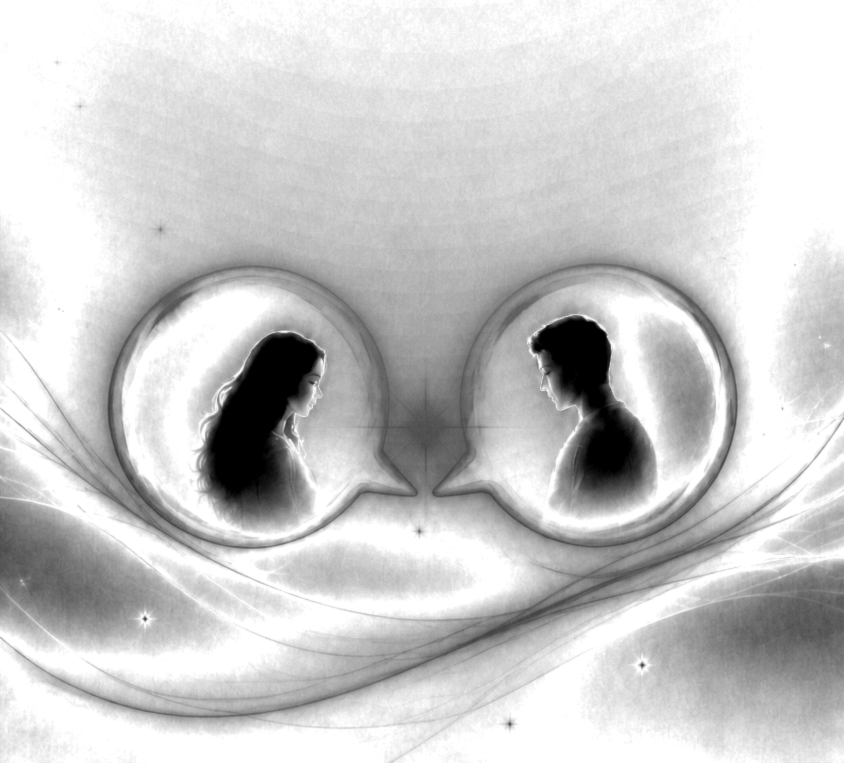
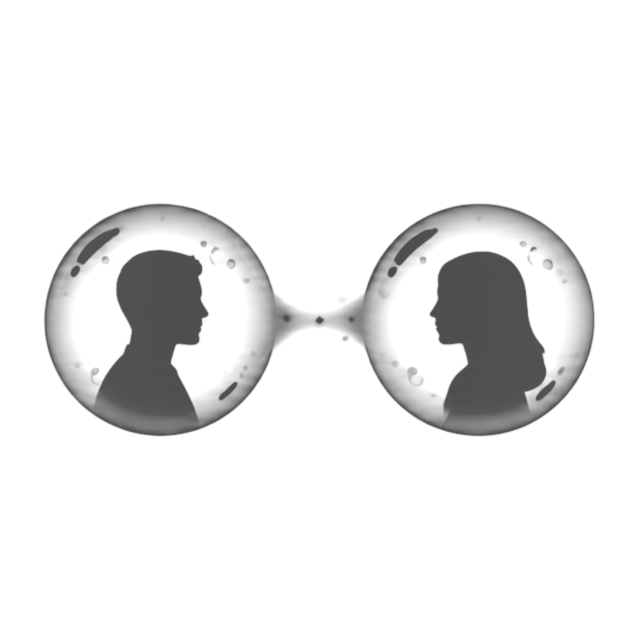
web: swap in user-provided v4 gradient illustration sets
Replace the high-pass-processed art with the final hand-made sets from
once_illustrations_gradient_sets_v4: black/ (dark art) -> light-mode -b,
white/ (light art) -> dark-mode -w, straight PNG->WebP (no reprocessing).
Square-ish, ~9-37KB each. Cache bust v=31.

diff --git a/web/public/index.html b/web/public/index.html
@@ -26,7 +26,7 @@
   <link rel="preconnect" href="https://fonts.googleapis.com">
   <link rel="preconnect" href="https://fonts.gstatic.com" crossorigin>
   <link href="https://fonts.googleapis.com/css2?family=Noto+Sans+Hebrew:wght@400;500;600;700;800;900&display=swap" rel="stylesheet">
-  <link rel="stylesheet" href="styles.css?v=30" />
+  <link rel="stylesheet" href="styles.css?v=31" />
 </head>
 <body>
   <header class="header">
@@ -67,8 +67,8 @@
         </div>
         <div class="hero-visual" aria-hidden="true">
           <picture>
-            <source srcset="img/01-hero-one-bubble-w.webp?v=30" media="(prefers-color-scheme: dark)" />
-            <img src="img/01-hero-one-bubble-b.webp?v=30" alt="" loading="eager" class="blob-1" />
+            <source srcset="img/01-hero-one-bubble-w.webp?v=31" media="(prefers-color-scheme: dark)" />
+            <img src="img/01-hero-one-bubble-b.webp?v=31" alt="" loading="eager" class="blob-1" />
           </picture>
         </div>
       </div>
@@ -89,8 +89,8 @@
           </div>
           <div class="section-visual" aria-hidden="true">
             <picture>
-              <source srcset="img/02-crowd-noise-focus-w.webp?v=30" media="(prefers-color-scheme: dark)" />
-              <img src="img/02-crowd-noise-focus-b.webp?v=30" alt="" loading="lazy" class="blob-2" />
+              <source srcset="img/02-crowd-noise-focus-w.webp?v=31" media="(prefers-color-scheme: dark)" />
+              <img src="img/02-crowd-noise-focus-b.webp?v=31" alt="" loading="lazy" class="blob-2" />
             </picture>
           </div>
         </div>
@@ -113,8 +113,8 @@
           </div>
           <div class="section-visual" aria-hidden="true">
             <picture>
-              <source srcset="img/06-two-sides-one-moment-w.webp?v=30" media="(prefers-color-scheme: dark)" />
-              <img src="img/06-two-sides-one-moment-b.webp?v=30" alt="" loading="lazy" class="blob-3" />
+              <source srcset="img/06-two-sides-one-moment-w.webp?v=31" media="(prefers-color-scheme: dark)" />
+              <img src="img/06-two-sides-one-moment-b.webp?v=31" alt="" loading="lazy" class="blob-3" />
             </picture>
           </div>
         </div>
@@ -144,8 +144,8 @@
         </div>
         <div class="lead-visual" aria-hidden="true">
           <picture>
-            <source srcset="img/04-send-invite-w.webp?v=30" media="(prefers-color-scheme: dark)" />
-            <img src="img/04-send-invite-b.webp?v=30" alt="" loading="lazy" class="blob-4" />
+            <source srcset="img/04-send-invite-w.webp?v=31" media="(prefers-color-scheme: dark)" />
+            <img src="img/04-send-invite-b.webp?v=31" alt="" loading="lazy" class="blob-4" />
           </picture>
         </div>
       </div>
@@ -178,8 +178,8 @@
           </div>
           <div class="section-visual" aria-hidden="true">
             <picture>
-              <source srcset="img/08-real-time-clock-w.webp?v=30" media="(prefers-color-scheme: dark)" />
-              <img src="img/08-real-time-clock-b.webp?v=30" alt="" loading="lazy" class="blob-5" />
+              <source srcset="img/08-real-time-clock-w.webp?v=31" media="(prefers-color-scheme: dark)" />
+              <img src="img/08-real-time-clock-b.webp?v=31" alt="" loading="lazy" class="blob-5" />
             </picture>
           </div>
         </div>
@@ -204,8 +204,8 @@
       <div class="container">
         <div class="lead-visual" aria-hidden="true">
           <picture>
-            <source srcset="img/06-matchstick-brand-w.webp?v=30" media="(prefers-color-scheme: dark)" />
-            <img src="img/06-matchstick-brand-b.webp?v=30" alt="" loading="lazy" class="blob-6" />
+            <source srcset="img/06-matchstick-brand-w.webp?v=31" media="(prefers-color-scheme: dark)" />
+            <img src="img/06-matchstick-brand-b.webp?v=31" alt="" loading="lazy" class="blob-6" />
           </picture>
         </div>
         <h2 id="cta-title">רוצים להיות בין הראשונים?</h2>

diff --git a/web/public/child-safety.html b/web/public/child-safety.html
@@ -23,7 +23,7 @@
   <link rel="preconnect" href="https://fonts.googleapis.com">
   <link rel="preconnect" href="https://fonts.gstatic.com" crossorigin>
   <link href="https://fonts.googleapis.com/css2?family=Noto+Sans+Hebrew:wght@400;500;600;700;800;900&display=swap" rel="stylesheet">
-  <link rel="stylesheet" href="styles.css?v=30" />
+  <link rel="stylesheet" href="styles.css?v=31" />
 </head>
 <body>
   <header class="header">

diff --git a/web/public/privacy.html b/web/public/privacy.html
@@ -23,7 +23,7 @@
   <link rel="preconnect" href="https://fonts.googleapis.com">
   <link rel="preconnect" href="https://fonts.gstatic.com" crossorigin>
   <link href="https://fonts.googleapis.com/css2?family=Noto+Sans+Hebrew:wght@400;500;600;700;800;900&display=swap" rel="stylesheet">
-  <link rel="stylesheet" href="styles.css?v=30" />
+  <link rel="stylesheet" href="styles.css?v=31" />
 </head>
 <body>
   <header class="header">

diff --git a/web/public/terms.html b/web/public/terms.html
@@ -23,7 +23,7 @@
   <link rel="preconnect" href="https://fonts.googleapis.com">
   <link rel="preconnect" href="https://fonts.gstatic.com" crossorigin>
   <link href="https://fonts.googleapis.com/css2?family=Noto+Sans+Hebrew:wght@400;500;600;700;800;900&display=swap" rel="stylesheet">
-  <link rel="stylesheet" href="styles.css?v=30" />
+  <link rel="stylesheet" href="styles.css?v=31" />
 </head>
 <body>
   <header class="header">
